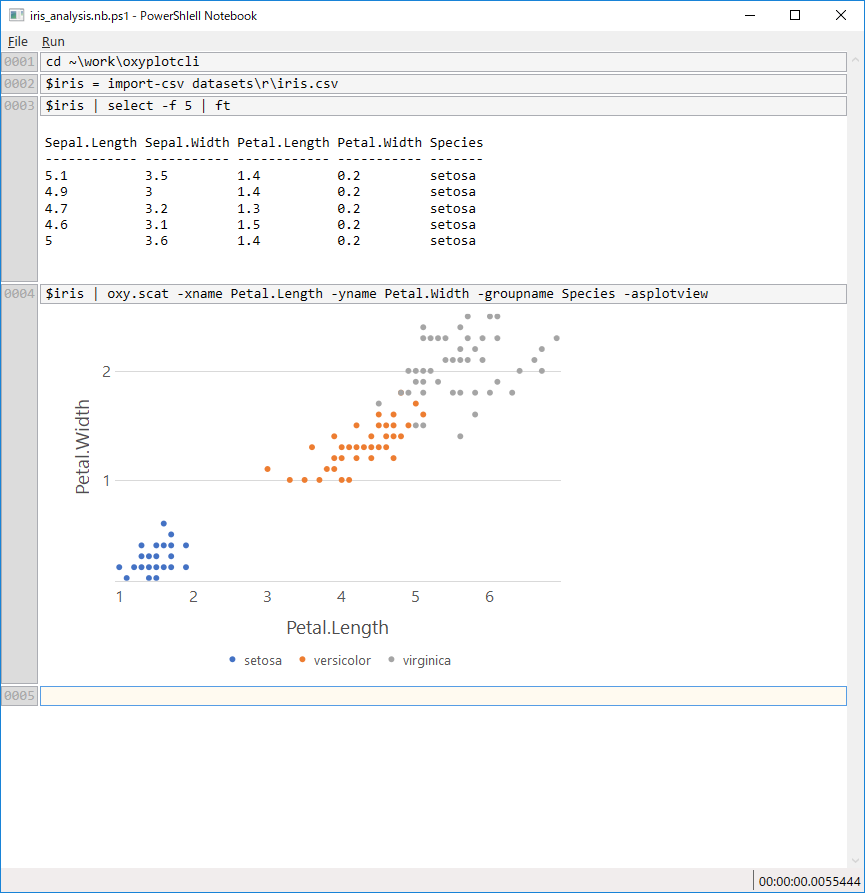
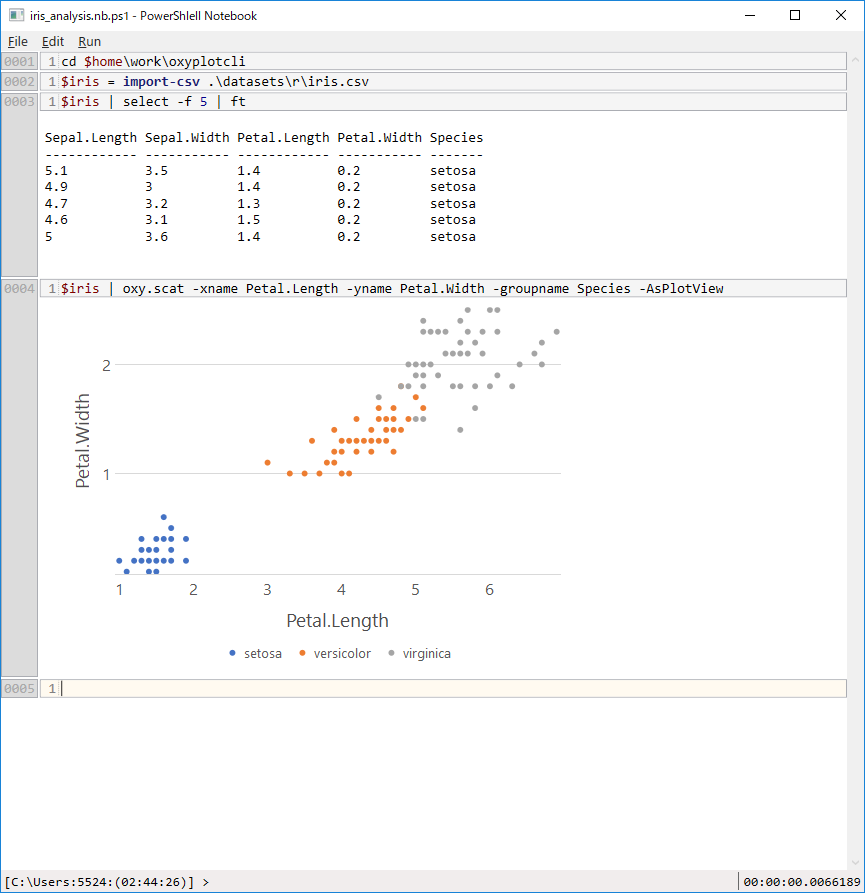
Update README.md

diff --git a/README.md b/README.md
@@ -1,34 +1,62 @@
 # PowerShell Notebook
 
-PowerShell Notebook is a console application for PowerShell to bring Jupyter Notebook-like user experience to PowerShell scripting.
+PowerShell Notebook is a console host application for PowerShell to bring Jupyter Notebook-like user experience to PowerShell scripting.
+
+The code editor uses [AvalonEdit](http://avalonedit.net) and provides code completion, syntax highlighting and automatic indentation.
 
 <img src="https://github.com/horker/psnotebook/blob/master/docs/images/screenshot.png" width=40%>
-
-This project is work-in-progress.
+<img src="https://github.com/horker/psnotebook/blob/master/docs/images/screenshot2.png" width=40%>
 
 ## Installation
 
+This module is published in the [PowreShell Gallery](https://www.powershellgallery.com/packages/psnotebook)
+
 ```PowerShell
-Install-Module psnotebook -Scope CurrentUser
+Install-Module psnotebook
 ```
 
-## How to start
+## Getting started
 
-Run the `Start-Notebook` cmdlet in the PowerShell console.
-As another way, execute `NotebookApp.exe` in the module directory (`$HOME\Documents\WindowsPowerShell\Modules\psnotebook` in usual environments).
+Import the module and invoke the `Start-Notebook` cmdlet in the PowerShell console.
+
+```PowerShell
+Import-Module psnotebook
+Start-Notebook
+```
+
+As another way, execute `NotebookApp.exe` in the module directory (`$HOME\Documents\WindowsPowerShell\Modules\psnotebook` in the usual environment).
 
 ## Key Bindings
 
-|Key stroke|Action|
-| -------- | ---- |
-|Ctrl+Up   |Move to the previous command line.|
-|Ctrl+Down |Move to the next command line.|
-|Enter     |Execute the command line and move to the next command line.|
-|Ctrl+Enter|Insert line break.|
-|F5        |Execute the command line and keep the cursor in the current command line.|
-|Ctrl+F5   |Execute all command lines.|
+|Key stroke |Action|
+| --------- | ---- |
+|Ctrl+Up    |Move to the previous command line.|
+|Ctrl+Down  |Move to the next command line.|
+|Ctrl+Left  |Move to the beginning of the command line.|
+|Ctrl+Right |Move to the end of the command line.|
+|Enter      |Insert a line break and automatic indentation. (Editor mode)|
+|Shift+Enter|Execute the command line and move to the next command line. (Editor mode)|
+|Ctrl+Enter |Execute the command line and keep the cursor in the current command line. (Editor mode)|
+|F5         |Execute the command line and keep the cursor in the current command line.|
+|Ctrl+F5    |Execute all command lines in sequence.|
+|Ctrl+Q     |Show the context menu to operate command line cells.|
+|Esc        |Cancel the ongoing execution.|
 
 The other key strokes work in the same way as the standard edit control.
+
+### Editor mode/Shell mode
+
+By default, the application is in the 'Editor mode'. In this mode, the Enter key will insert a line break and entering the Ctrl+Enter and Shift+Enter keys will execute the command line.
+
+When this mode is set to off ('Shell mode'), the Enter key will immediately execute the command. The Ctrl+Enter and Shift+Enter keys will insert a line break.
+
+You can set the Editor mode on and off in the 'Edit' menu or the context menu.
+
+## Context menu
+
+By right-clicking on the cell index or enter Ctrl+Q in the code editor, the context menu will open.
+
+Several commands to operate command line cells are available in the context menu.
 
 ## Helper cmdlets
 
@@ -40,7 +68,17 @@ The other key strokes work in the same way as the standard edit control.
 |Get-NotebookWindowDispatcher|Get a Dispatcher object that the Notebook's GUI exposes.|
 |Invoke-WpfAction|Invoke a script block under the thread in which the Notebook application is running.|
 
-## Using with OxyPlot CLI
+## Limitationas
+
+The following limitations exist in the current version:
+
+- Keyboard input. The following operations do not work: `Read-Host`, `$ErrorActionPreference='Inquire'`, a debugger and native applications that perform any console I/O operations except writing to standard and error outputs.
+- Terminal escape sequences.
+- Any customization is not available.
+
+## Notes
+
+### Using with OxyPlot CLI
 
 To use [OxyPlot CLI](https://github.com/horker/oxyplotcli2) with this application, execute the following commands:
 
@@ -49,7 +87,7 @@ Import-Module oxyplotcli
 Set-OxyPlotViewDispatcher (Get-NotebookWindowDispatcher)
 ```
 
-You should add the `-AsPlotView` parameter to each OxyPlot CLI cmdlet to show a chart inline.
+You should add the `-AsPlotView` parameter to each OxyPlot CLI cmdlet to show charts inline.
 
 ```PowerShell
 oxy.line -x 1,2,3 -y 1,2,3 -AsPlotView
@@ -57,4 +95,6 @@ oxy.line -x 1,2,3 -y 1,2,3 -AsPlotView
 
 ## License
 
-This product is published under the MIT license.
+This software is published under the MIT license.
+
+The AvalonEdit library that this software using is subject to its own license. Refer to the [project site](http://avalonedit.net).
